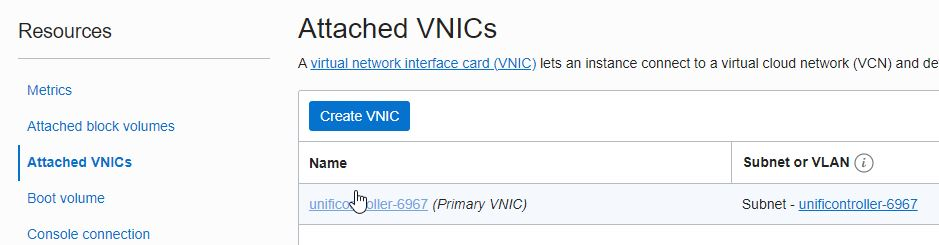
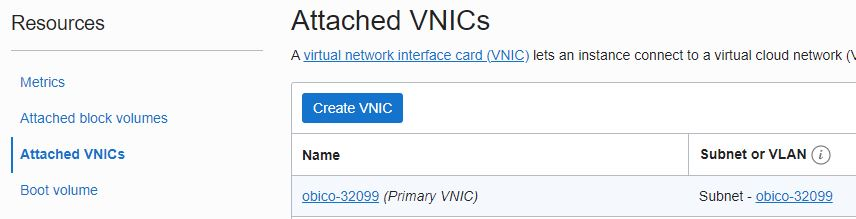
Correct Static IP instructions

diff --git a/README.md b/README.md
@@ -77,7 +77,7 @@ Additional information can be found on the Oracle Support Page under [Instance C
 
 A static IP address can be reserved to keep the same address even if the original instance is deleted or recreated.  This is not done automatically by the Terraform file, but can configured after creation
 
-1) Navigate to Menu>Compute>Instances and select the Unifi controller instance name. (Ensure Compartment on the left side is changed to "unificontroller")
+1) Navigate to Menu>Compute>Instances and select the Obico instance name. (Ensure Compartment on the left side is changed to "obico")
 2) Scroll down to "Attached VNICs" under Resources on the left side and click on the Primary VNIC name
 
     ![alt text](./images/attached-vnics.jpg)
